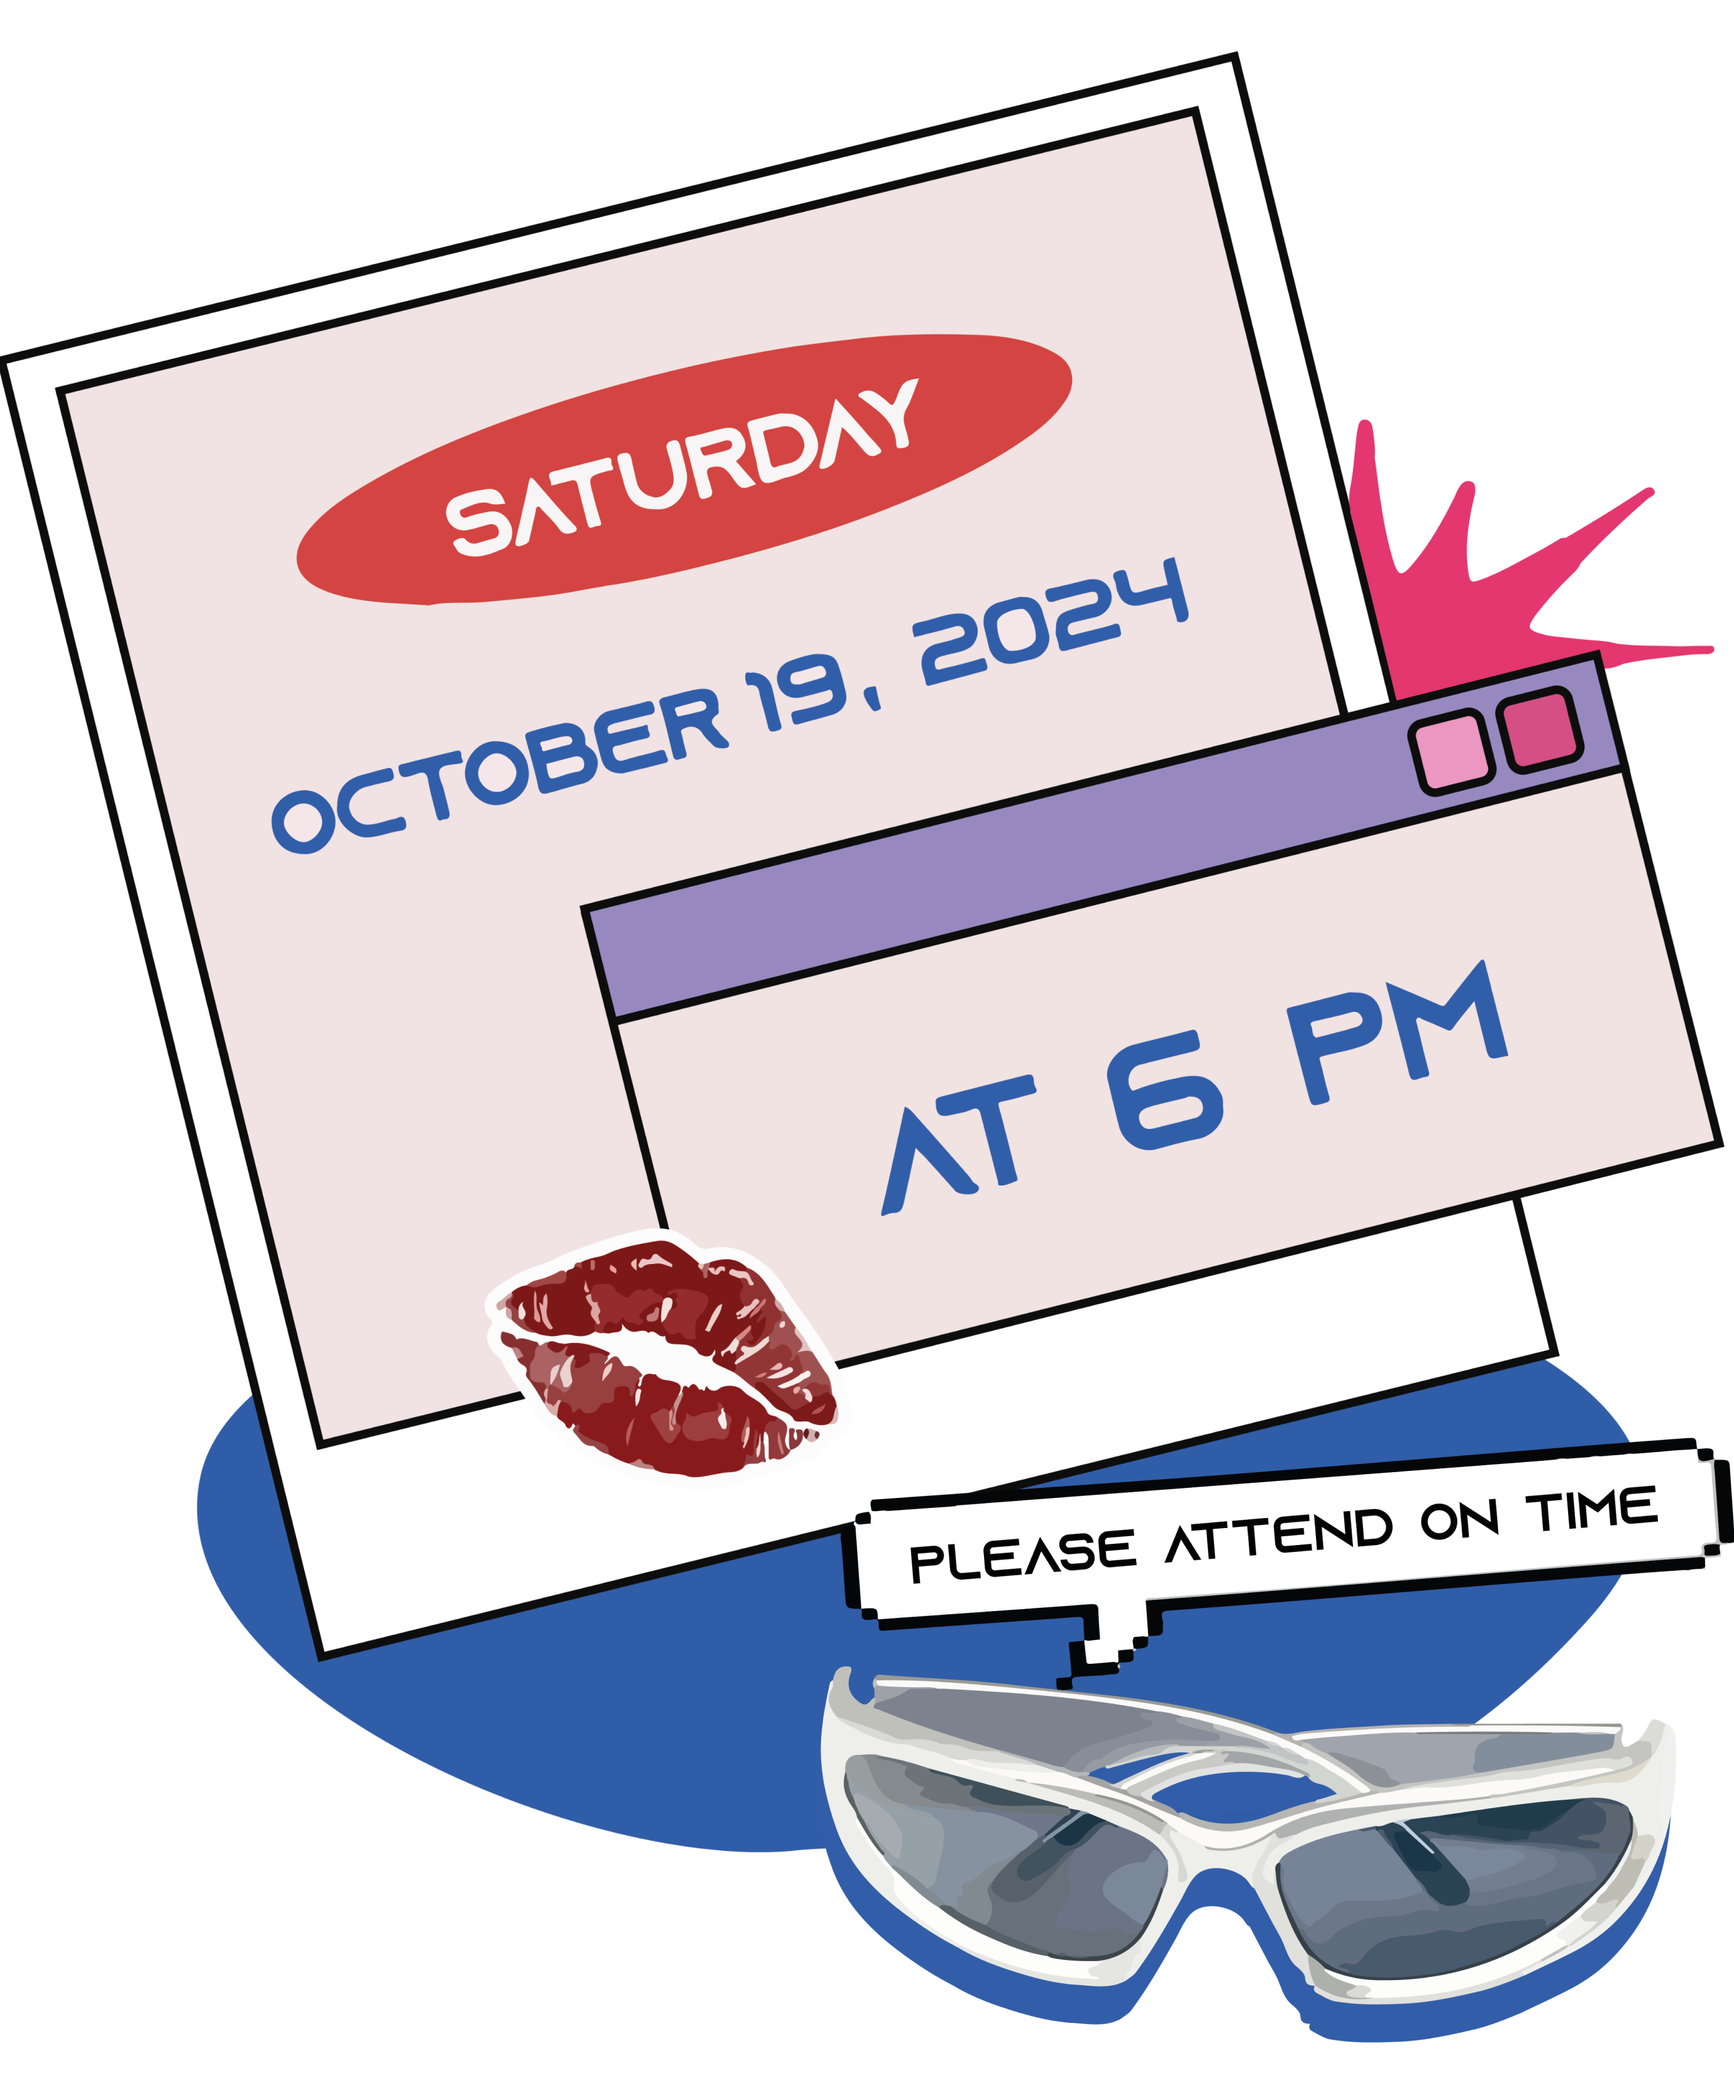
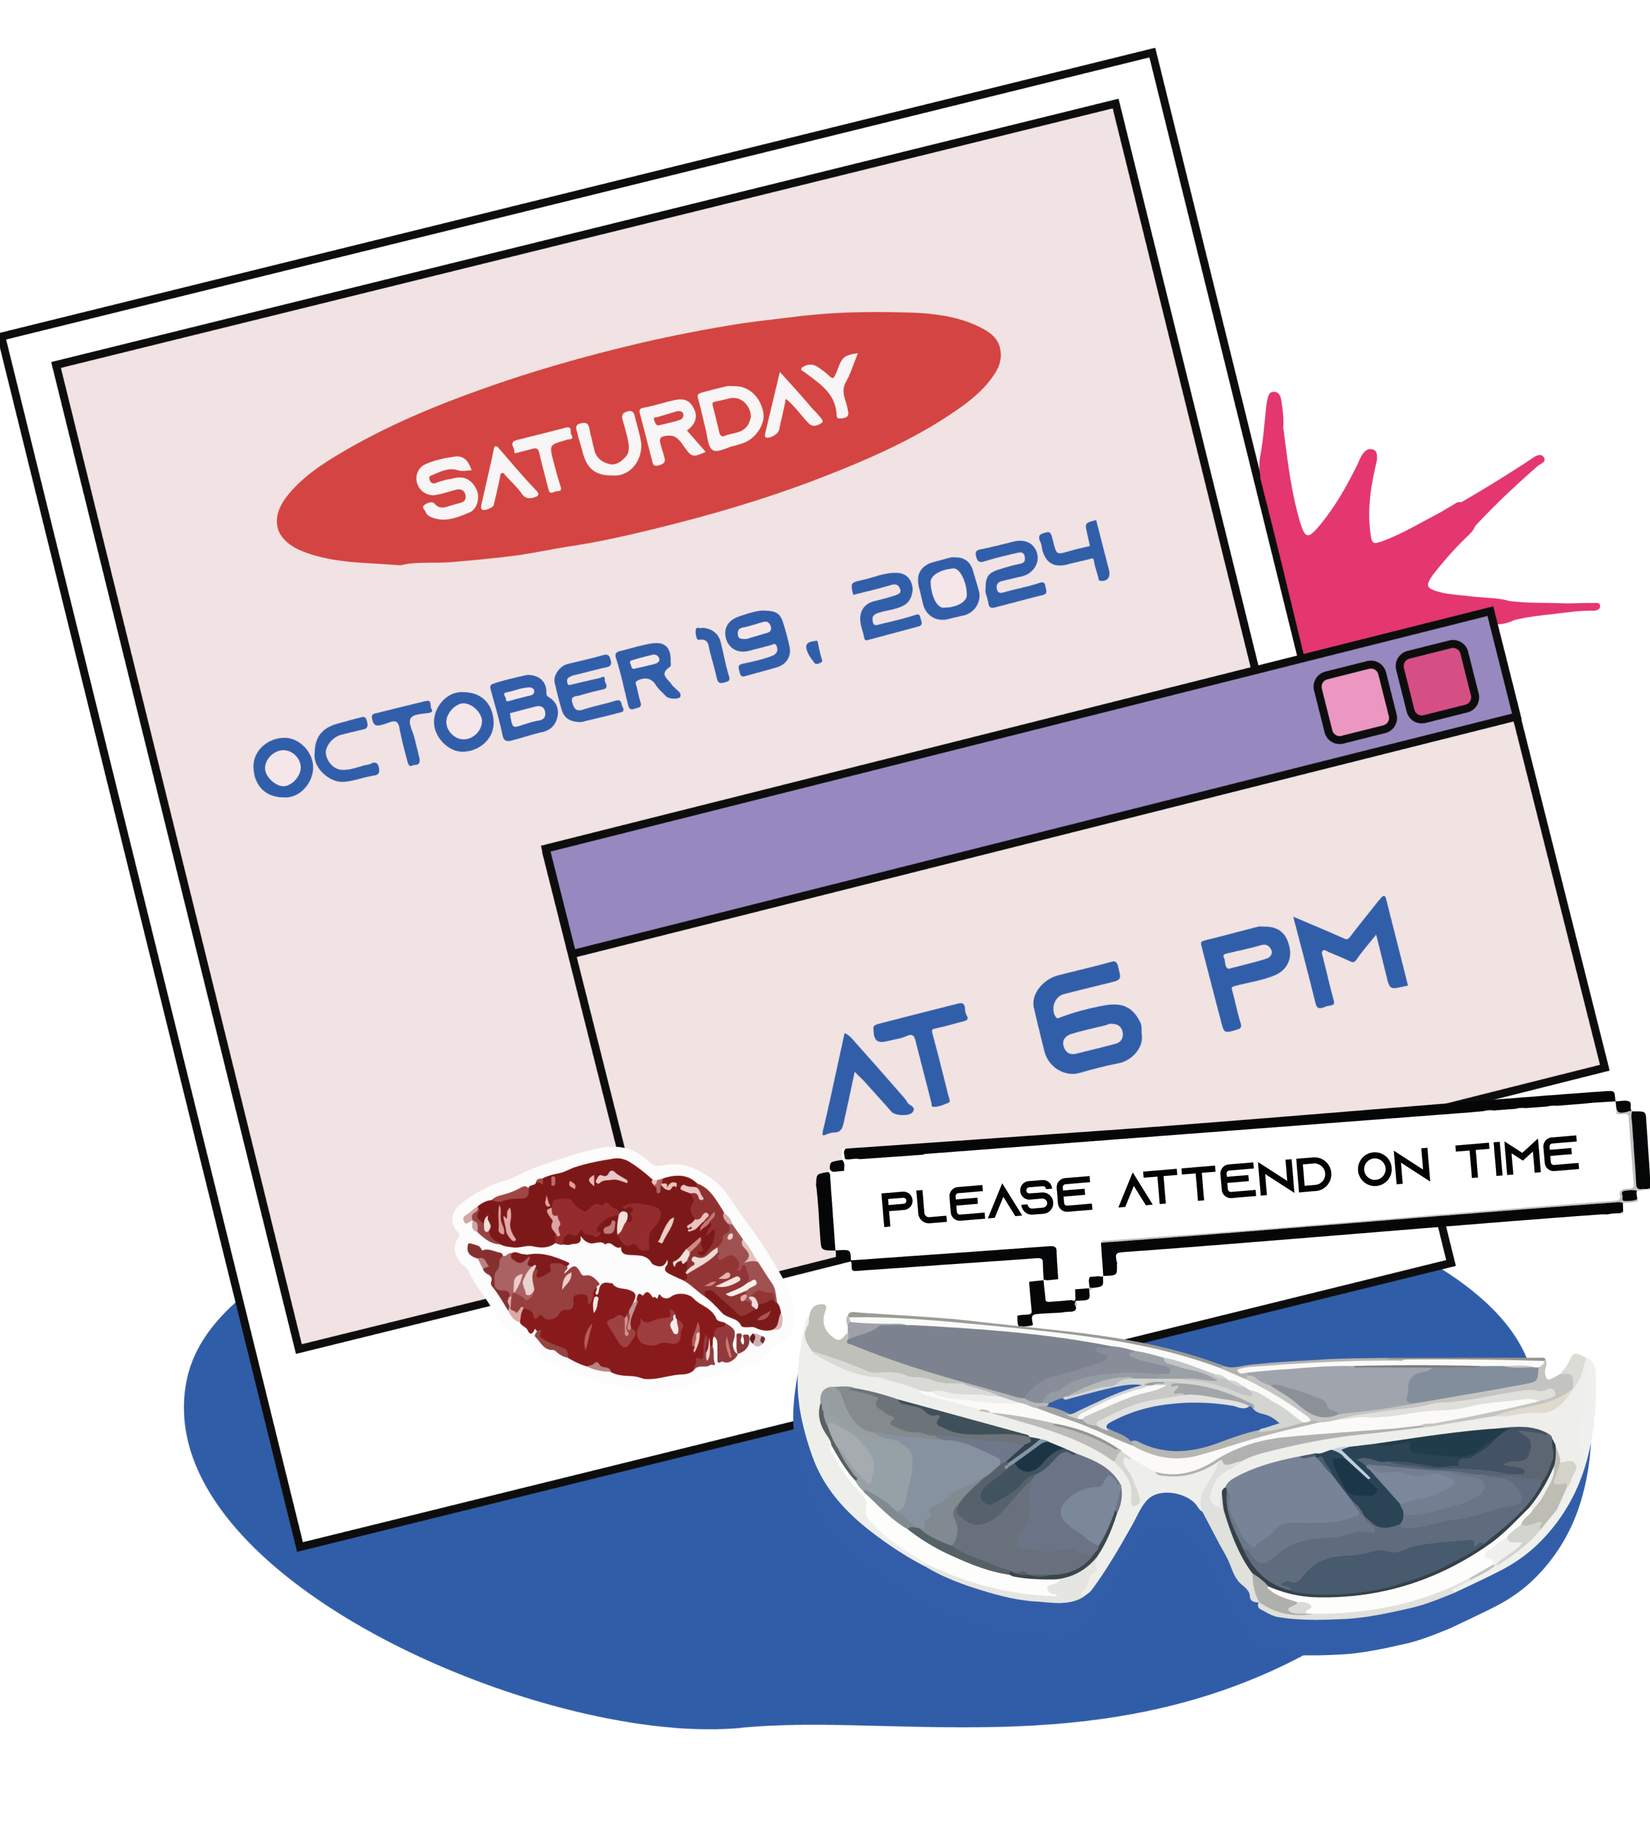
fix: mobile page 3

diff --git a/index.html b/index.html
@@ -319,7 +319,7 @@
       class="bg tw-bg-[url('assets/slide_3/bg3.webp')] md:tw-bg-[url('assets/desktop/bg3.webp')]"
       id="3"
     >
-      <section class="tw-text-center tw-top-[4%] md:tw-pl-[0vw] md:tw-pr-[0vw] md:tw-top-[0%]">
+      <section class="tw-text-center tw-top-[0%] md:tw-pl-[0vw] md:tw-pr-[0vw] md:tw-top-[0%]">
         <div class="tw-relative tw-top-0 tw-left-0">
           <img
             src="assets/slide_3/bg3_1.webp"
@@ -337,7 +337,7 @@
             class="img-fluid img-float md:tw-pr-[39vw] md:tw-pl-[0vw] md:tw--mt-[33vw] ds-com"
           />
           
-          <div class="tw--mt-[30vw] tw-translate-x-[5vw] md:tw--mt-[30vw] md:tw-translate-x-[27vw]">
+          <div class="tw--mt-[20vw] tw-translate-x-[7vw] md:tw--mt-[30vw] md:tw-translate-x-[27vw]">
             <div class="row timer d-flex justify-content-center tw-px-[10vw] md:tw-text-lg">
               <div
                 class="col-4 tw-bg-[url('assets/slide_3/bg3_3.webp')]"
